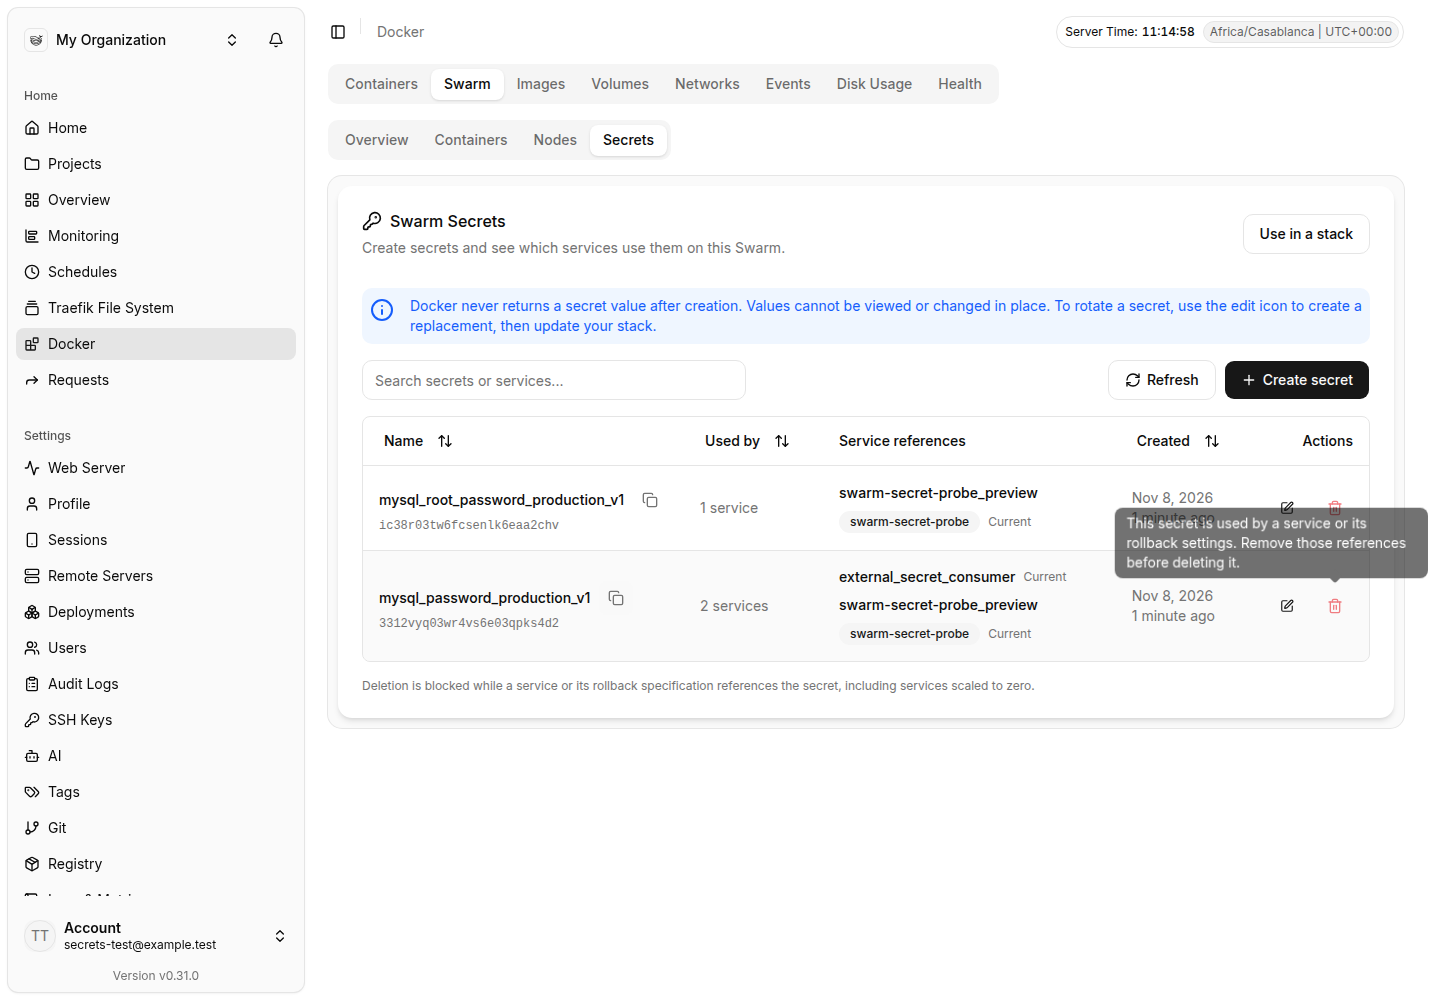
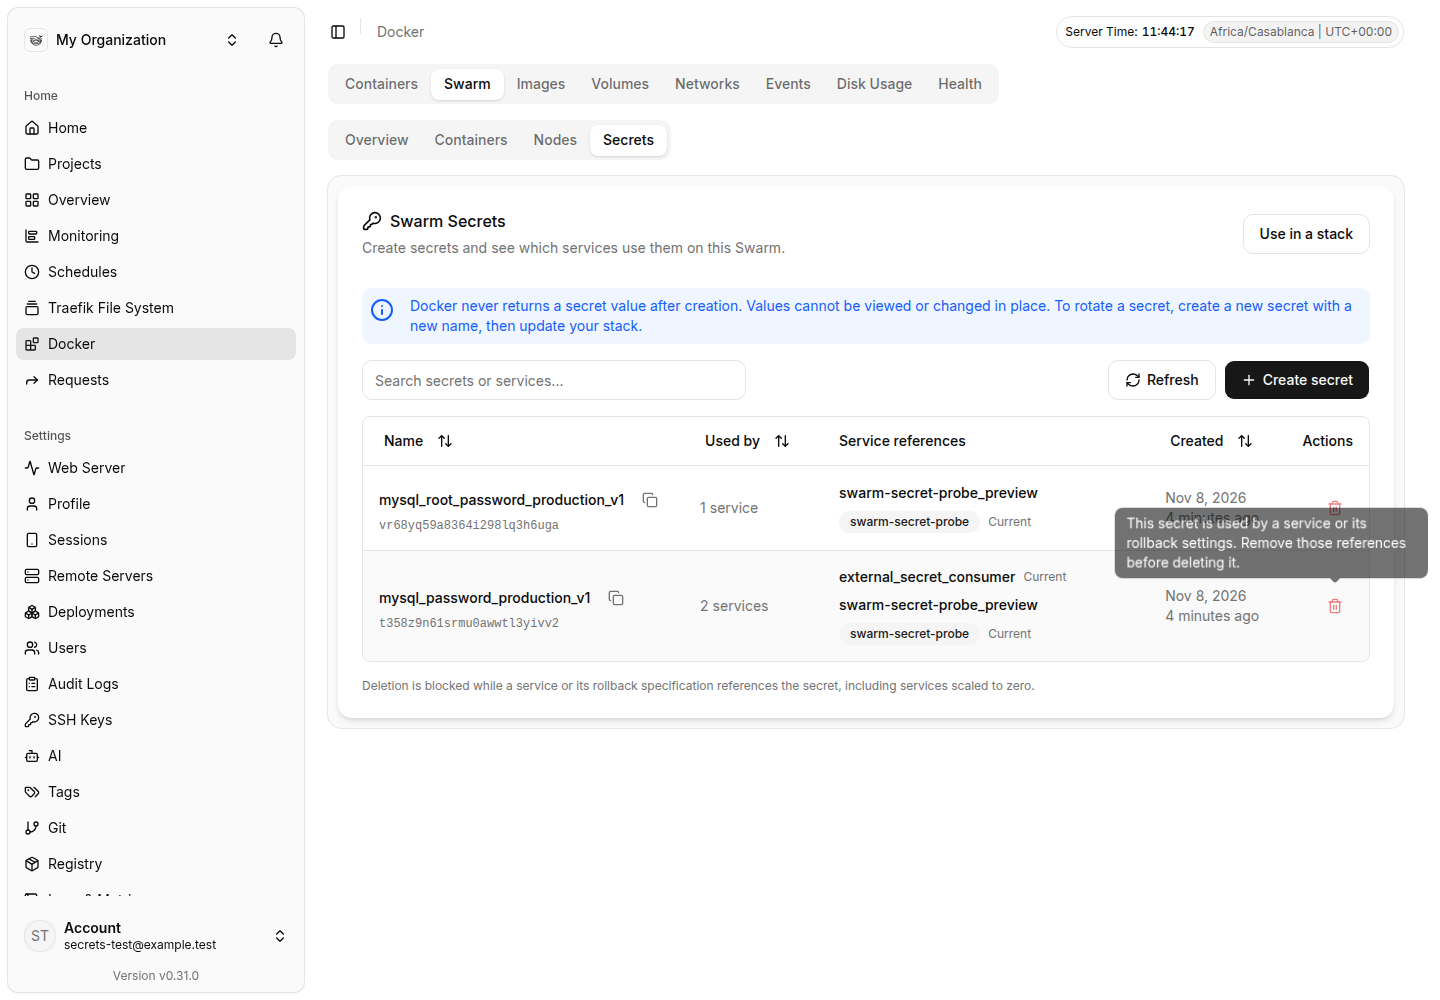
docs: show Swarm secret create and delete actions

diff --git a/swarm-secrets-preview/README.md b/swarm-secrets-preview/README.md
@@ -1,15 +1,15 @@
 # Swarm secrets preview
 
-Feature commit: `d78d6236196f092c0a76a5a8a3b0bc76dd287a12`. Base: `3c6d5f611389fdb0eeab9e13285ae3d6828800c0`.
+Feature commit: `99d00b0e05db5296d1cf6581fd3c44a6531fe7be`. Base: `3c6d5f611389fdb0eeab9e13285ae3d6828800c0`.
 
-Seven screenshots show the source app on 8 November 2026. The list uses the standard signed-in Docker permission and selected-server checks. It opens directly. The app uses real PostgreSQL, Docker secrets, and service references in an isolated Docker-in-Docker Swarm. Screenshots contain sample names and public example content, with no private credentials or stored secret values.
+Six screenshots show the source app on 8 November 2026. The list uses the standard signed-in Docker permission and selected-server checks. It opens directly. The app uses real PostgreSQL, Docker secrets, and service references in an isolated Docker-in-Docker Swarm. Screenshots contain sample names and public example content, with no private credentials or stored secret values.
 
-The create dialog reuses Dokploy's shared code editor. The pencil opens Create replacement secret with empty content and a new name. Docker cannot return or change an existing value. The old secret and its references are preserved. Hovering over or focusing a disabled delete icon explains why deletion is blocked.
+The create dialog reuses Dokploy's shared code editor. Each secret row has only a delete action. Hovering over or focusing a disabled delete icon explains why deletion is blocked. Docker cannot return or change an existing value. To rotate a secret, create one with a new name and update the stack before removing the old secret.
 
-`direct-access-results.json` records 17 browser checks with no browser errors. These cover normal signed-in access, column order, date formatting and sorting, copying names, typed-name deletion, count updates, metadata-only responses, anonymous access rejection, confirmation during background refresh, multiline UTF-8 content, replacement creation, and the disabled-delete tooltip. A temporary Swarm service mounted the UI-created value, and its SHA-256 matched the submitted bytes, including whitespace and non-ASCII text.
+`direct-access-results.json` records 15 browser checks with no browser errors. These cover normal signed-in access, column order, date formatting and sorting, copying names, typed-name deletion, count updates, metadata-only responses, anonymous access rejection, confirmation during background refresh, multiline UTF-8 content, delete-only row actions, and the disabled-delete tooltip. A temporary Swarm service mounted the UI-created value, and its SHA-256 matched the submitted bytes, including whitespace and non-ASCII text.
 
-`direct-runtime-results.json` records nine live Docker checks, including UTF-8 byte limits, duplicate names, exact-name confirmation, already-deleted errors, zero-replica services, and rollback-only references. The tests remove their temporary secrets and services.
+`direct-runtime-results.json` records nine live Docker checks from the preceding version. The server code is unchanged. These checks cover UTF-8 byte limits, duplicate names, exact-name confirmation, already-deleted errors, zero-replica services, and rollback-only references. The tests remove their temporary secrets and services.
 
-149 targeted tests across 13 files, workspace type checks, and changed-file Biome checks passed. All workspace production builds passed. See `verification.json` for details. These screenshots come from the source development app. Earlier feature evidence remains in the branch history.
+149 targeted tests across 13 files and frontend type checking passed on this commit. Workspace type checks passed on the preceding commit, with only frontend and documentation changes since then. All workspace production builds passed on this commit. See `verification.json` for details. These screenshots come from the source development app. Earlier feature evidence remains in the branch history.
 
 The usage count is the number of distinct Swarm services referencing a secret, including rollback references. One stack can contain several such services. The host Swarm was not initialized or changed.
